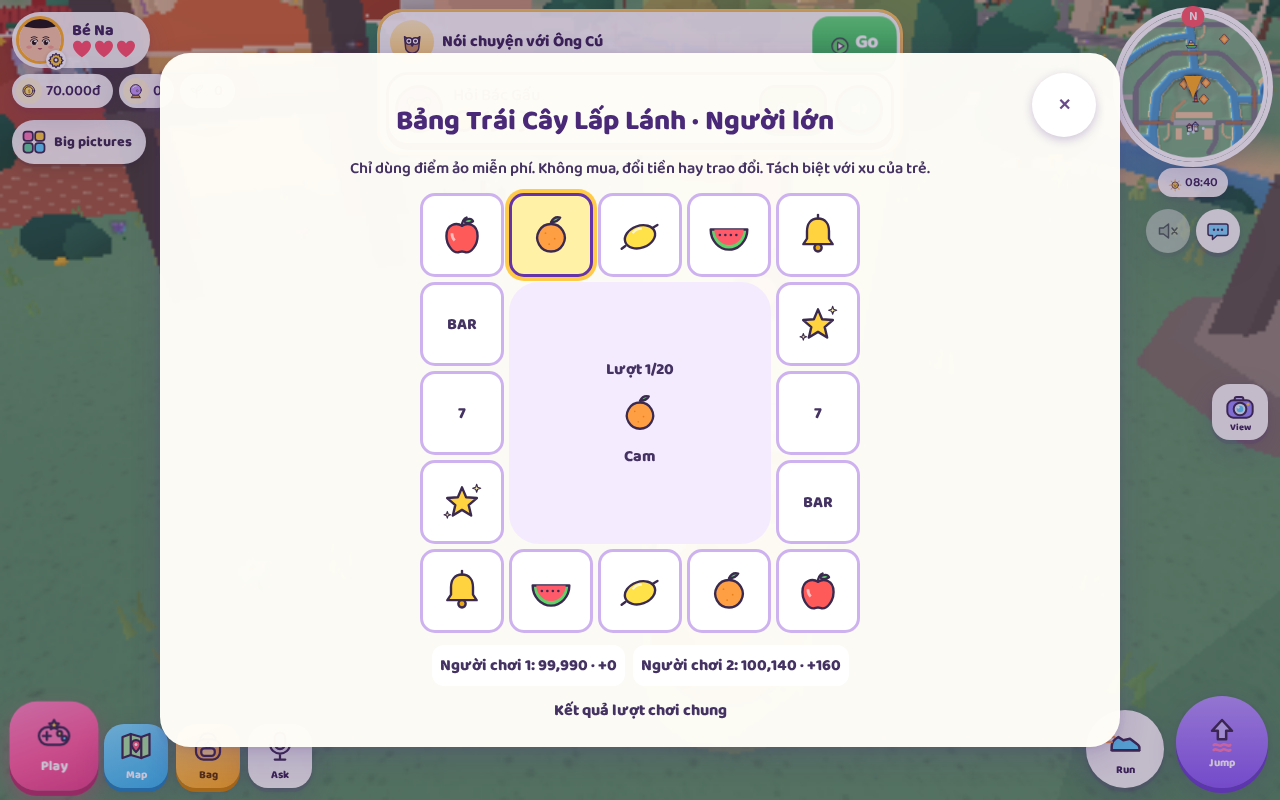
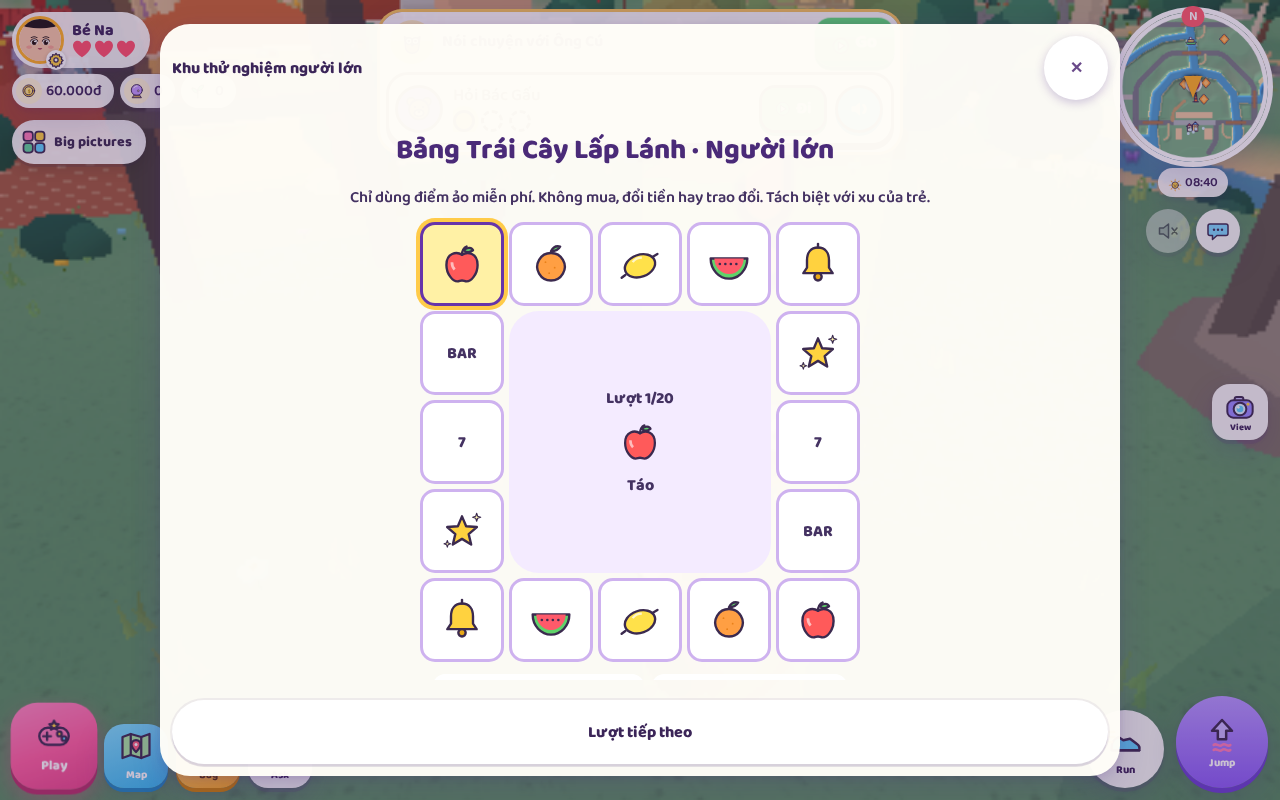
Keep parent arcade shell stable with reserved primary actions and safe hold cleanup

diff --git a/js/games/sparklefruitbar.ts b/js/games/sparklefruitbar.ts
@@ -14,9 +14,9 @@ export function openFruitBar(online?:GameOnline){
  const wasPaused=window.__sv?.paused;if(window.__sv)window.__sv.paused=true;
  const m=modal('parent-arcade',''),card=m.querySelector('.card') as HTMLElement;card.replaceChildren();
  const style=dom('style');style.textContent=ARCADE_STYLE;const close=control('✕',()=>finish());close.setAttribute('aria-label',T('Close','Đóng'));close.classList.add('x');
- const root=dom('div','arcade arcade-adult');root.dataset.parentArcade='';card.append(style,close,root);
+ const root=dom('div','arcade arcade-adult');root.dataset.parentArcade='';const header=dom('div','parent-arcade-header');header.append(dom('b','',T('Grown-up tester arcade','Khu thử nghiệm người lớn')),close);const footer=dom('div','parent-arcade-footer');card.append(style,header,root,footer);
  let session:ArcadeSession<ReturnType<typeof barStart>>|undefined,dead=false,helper=false,waitingAt=0;
- let timer:ReturnType<typeof setInterval>|undefined,frame=0,shown=-1,spinning=false,light=0;
+ let timer:ReturnType<typeof setInterval>|undefined,frame=0,shown=-1,spinning=false,light=0,lastView='';
  const icon=(i:number)=>i>=6?dom('b','',i===6?'7':'BAR'):art(BAR_SYMBOLS[i].art);
  function finish(){if(dead)return;dead=true;if(timer)clearInterval(timer);cancelAnimationFrame(frame);session?.close();if(online)online.leave?.();observer.disconnect();m.remove();if(window.__sv)window.__sv.paused=wasPaused||false;}
  function start(seats:number,npc:boolean,fair:boolean){helper=npc;session=new ArcadeSession(barStart(online?.seed||`parent-bar-${Date.now()}`,seats,fair),online,barApply,paint);paint();timer=setInterval(()=>{
@@ -31,7 +31,7 @@ export function openFruitBar(online?:GameOnline){
  const batch=(values:number[])=>{queued=values;while(queued.length&&!session?.busy){const n=queued.shift()!;if(!session?.submit(n))break;}};
  const command=(value:number)=>{if(!spinning)session?.submit(value);};
  function paint(){
-  if(!session||dead)return;const s=session.state;root.replaceChildren();root.dataset.phase=s.phase;root.dataset.round=String(s.round);queueMicrotask(pump);
+  if(!session||dead)return;const s=session.state;const view=[s.phase,s.round,s.turn].join(':');const resetView=view!==lastView;lastView=view;root.replaceChildren();footer.replaceChildren();root.dataset.phase=s.phase;root.dataset.round=String(s.round);queueMicrotask(pump);
   root.append(dom('h2','',T('Sparkle Fruit Bar · Grown-ups','Bảng Trái Cây Lấp Lánh · Người lớn')),
    dom('p','',T('Free virtual counters only. No purchase, cash-out or exchange. Separate from children’s coins.','Chỉ dùng điểm ảo miễn phí. Không mua, đổi tiền hay trao đổi. Tách biệt với xu của trẻ.')));
   const board=dom('div','arcade-ring');for(let i=0;i<16;i++){const c=dom('div','arcade-cell');c.dataset.barCell=String(i);c.style.gridColumn=String(RING_CELLS[i][0]);c.style.gridRow=String(RING_CELLS[i][1]);c.append(icon(i%8));board.append(c);}
@@ -48,22 +48,23 @@ export function openFruitBar(online?:GameOnline){
    const clear=control(T('Clear','Xóa'),()=>batch(s.bets[s.turn].flatMap((n,i)=>n?[i*101]:[])));
    const repeat=control(T('Repeat','Lặp lại'),()=>batch(s.previous[s.turn].flatMap((n,i)=>n!==s.bets[s.turn][i]?[i*101+n]:[])));
    const refill=control(T('Free refill to 100,000','Nạp miễn phí lên 100.000'),()=>command(902));refill.disabled=s.balances[s.turn]>=100000;
-   const ready=control(T('Lock allocations / Start','Chốt điểm / Bắt đầu'),()=>command(900));ready.dataset.barReady='';ready.disabled=!s.bets[s.turn].some(Boolean);actions.append(clear,repeat,refill,ready);if(queued.length||!mine()||session.waiting||helper&&!session.online&&s.turn!==0)actions.querySelectorAll('button').forEach(b=>b.disabled=true);root.append(actions);
+   const ready=control(T('Lock allocations / Start','Chốt điểm / Bắt đầu'),()=>command(900));ready.dataset.barReady='';ready.disabled=!s.bets[s.turn].some(Boolean)||!mine()||session.waiting||queued.length>0||helper&&!session.online&&s.turn!==0;actions.append(clear,repeat,refill);footer.append(ready);if(queued.length||!mine()||session.waiting||helper&&!session.online&&s.turn!==0)actions.querySelectorAll('button').forEach(b=>b.disabled=true);root.append(actions);
   }else{
    root.append(dom('p','',T(`Biggest returns: ${s.biggest.join(' · ')}`,`Điểm nhận lớn nhất: ${s.biggest.join(' · ')}`)));
-   if(s.phase==='result'){const next=control(s.round>=s.limit?T('Finish session','Kết thúc phiên'):T('Next round','Lượt tiếp theo'),()=>command(901));next.dataset.barNext='';next.disabled=!mine()||session.waiting||(!reduceMotion()&&s.round!==shown);root.append(next);}
+   if(s.phase==='result'){const next=control(s.round>=s.limit?T('Finish session','Kết thúc phiên'):T('Next round','Lượt tiếp theo'),()=>command(901));next.dataset.barNext='';next.disabled=!mine()||session.waiting||spinning||(!reduceMotion()&&s.round!==shown);footer.append(next);}
    else root.append(dom('h2','',T('Session complete. These counters stay in this arcade only.','Phiên chơi kết thúc. Điểm ảo chỉ nằm trong trò này.')));
   }
   const rules=dom('details'),summary=dom('summary','',T('Rules and exact frequencies','Luật chơi và tần suất chính xác'));rules.append(summary,dom('p','',T('Each selected counter is deducted once. Return = allocation × multiplier on the final symbol. Choose 0–100 per symbol. The default challenge lasts 20 rounds; refills are always free.','Mỗi điểm đã chọn được trừ một lần. Điểm nhận = điểm đặt × hệ số của hình cuối. Chọn 0–100 mỗi hình. Phiên mặc định có 20 lượt; nạp điểm luôn miễn phí.')),
    dom('p','',BAR_SYMBOLS.map(x=>`${T(x.en,x.vi)}: ${s.fair?'12.5':x.weight}% ×${x.mult}`).join(' · ')),dom('p','',T('Family-hosted seeded results are shared across players. This is not a ranked or cheat-proof competition. No public leaderboard or real-world value.','Kết quả theo hạt giống được chia sẻ giữa người chơi trong phòng gia đình. Đây không phải cuộc thi xếp hạng hay chống gian lận. Không có bảng xếp hạng công khai hoặc giá trị ngoài đời.')));root.append(rules);
   if(session.waiting&&performance.now()-waitingAt>=30000){const b=control(T('Continue locally','Chơi tiếp trên máy này'),()=>{session!.continueLocally();helper=false;waitingAt=0;paint();});b.dataset.barContinue='';root.append(b);}
+  if(resetView)root.scrollTop=0;
   if(s.phase==='result'&&s.round!==shown){shown=s.round;animateResult(s.result!);}else highlight(s.result??0);
  }
  function highlight(index:number){root.querySelectorAll<HTMLElement>('[data-bar-cell]').forEach((cell,i)=>cell.classList.toggle('on',i===index));}
  function animateResult(result:number){cancelAnimationFrame(frame);if(reduceMotion()){highlight(result);return;}spinning=true;const begin=performance.now();const tick=(now:number)=>{if(dead)return;const p=Math.min(1,(now-begin)/1800);light=Math.floor(48*(1-(1-p)**3));highlight(p===1?result:light%16);if(p<1)frame=requestAnimationFrame(tick);else{spinning=false;paint();}};frame=requestAnimationFrame(tick);}
  const gate=dom('div','arcade-gate');gate.append(dom('h2','',T('Grown-up tester arcade','Khu thử nghiệm dành cho người lớn')),dom('p','',T('Hold to enter. Virtual play only; this does not change the child’s progress.','Nhấn giữ để vào. Chỉ chơi bằng điểm ảo; không thay đổi tiến trình của trẻ.')));
  const enter=control(T('Grown-ups: press and hold','Người lớn: nhấn giữ'),()=>{});enter.classList.add('grown');enter.innerHTML='<span class="ring"></span>'+T('Grown-ups: press and hold','Người lớn: nhấn giữ');enter.dataset.barGate='';gate.append(enter);root.append(gate);
- holdButton(enter,()=>{root.replaceChildren();if(online){start(Math.min(4,online.names.length),false,false);return;}root.append(dom('h2','',T('Choose a parent arcade session','Chọn phiên chơi dành cho người lớn')));for(const [label,vi,seats,npc,fair]of [['Classic solo','Một người cổ điển',1,false,false],['Equal frequencies solo','Một người tần suất bằng nhau',1,false,true],['Two adults here','Hai người lớn cùng máy',2,false,false],['With a practice helper','Cùng bạn hỗ trợ tập chơi',2,true,false]]as const){if(!testerArcadeAvailable('sparklefruitbar','single'))continue;const b=control(T(label,vi),()=>start(seats,npc,fair));b.dataset.barMode=String(seats)+(npc?'npc':fair?'fair':'');root.append(b);}if(testerArcadeAvailable('sparklefruitbar','multi'))root.append(control(T('Invite another grown-up online','Mời người lớn khác trực tuyến'),()=>{finish();window.__sv.inviteGame('sparklefruitbar',undefined,1);}));});
+ holdButton(enter,()=>{if(dead)return;root.replaceChildren();if(online){start(Math.min(4,online.names.length),false,false);return;}root.append(dom('h2','',T('Choose a parent arcade session','Chọn phiên chơi dành cho người lớn')));for(const [label,vi,seats,npc,fair]of [['Classic solo','Một người cổ điển',1,false,false],['Equal frequencies solo','Một người tần suất bằng nhau',1,false,true],['Two adults here','Hai người lớn cùng máy',2,false,false],['With a practice helper','Cùng bạn hỗ trợ tập chơi',2,true,false]]as const){if(!testerArcadeAvailable('sparklefruitbar','single'))continue;const b=control(T(label,vi),()=>start(seats,npc,fair));b.dataset.barMode=String(seats)+(npc?'npc':fair?'fair':'');root.append(b);}if(testerArcadeAvailable('sparklefruitbar','multi'))root.append(control(T('Invite another grown-up online','Mời người lớn khác trực tuyến'),()=>{finish();window.__sv.inviteGame('sparklefruitbar',undefined,1);}));});
  return {close:finish};
 }
 

diff --git a/js/games/arcade-board.ts b/js/games/arcade-board.ts
@@ -3,4 +3,4 @@ export function dom<K extends keyof HTMLElementTagNameMap>(tag:K,cls='',text='')
 export function art(glyph:string){const e=dom('span','arcade-art');e.innerHTML=pic(glyph);return e;}
 export function control(text:string,fn:()=>void){const b=dom('button','btn',text);b.type='button';b.onclick=fn;return b;}
 export const RING_CELLS=[[1,1],[2,1],[3,1],[4,1],[5,1],[5,2],[5,3],[5,4],[5,5],[4,5],[3,5],[2,5],[1,5],[1,4],[1,3],[1,2]] as const;
-export const ARCADE_STYLE=`.arcade{width:min(100%,820px);margin:auto;display:grid;gap:12px;padding:8px;color:#443262}.arcade button{min-height:64px;min-width:64px;white-space:normal}.arcade h2,.arcade p{margin:0;text-align:center}.arcade .arcade-art .art{width:42px;height:42px}.arcade-mission{display:flex;gap:6px;justify-content:center;flex-wrap:wrap}.arcade-mission>span{background:#fff;border:3px solid #ddcafa;border-radius:16px;padding:6px}.arcade-mission .found{border-color:#23874a;background:#dcffe1}.arcade-ring{display:grid;grid-template:repeat(5,1fr)/repeat(5,minmax(0,1fr));aspect-ratio:1;max-height:440px;width:min(100%,440px);margin:auto;gap:5px;position:relative}.arcade-cell{display:grid;place-items:center;border:3px solid #ceb2ef;border-radius:15px;background:#fff;min-width:0!important;min-height:0!important;padding:3px}.arcade-cell.on{border-color:#6634aa;background:#fff1a5;box-shadow:0 0 0 4px #ffcb49}.arcade-cell .art{width:clamp(24px,7vw,44px)!important;height:clamp(24px,7vw,44px)!important}.arcade-center{grid-column:2/5;grid-row:2/5;display:flex;flex-direction:column;align-items:center;justify-content:center;text-align:center;gap:10px;padding:6px;background:#f4ebff;border-radius:30px}.arcade-center .art{width:74px;height:74px}.gl-arcade .arcade{flex-shrink:0}.orchard .arcade-ring{width:min(100%,440px,max(240px,calc(100dvh - 440px)))}.arcade-actions{display:flex;flex-wrap:wrap;justify-content:center;gap:8px}.arcade-status{min-height:2.8em;text-align:center;font-weight:700}.arcade-allocations{display:grid;grid-template-columns:repeat(auto-fit,minmax(125px,1fr));gap:8px}.arcade-bet{background:#fff;border:2px solid #d6c4ef;border-radius:18px;padding:8px;display:grid;justify-items:center;gap:5px}.arcade-bet label{display:grid;text-align:center;gap:4px}.arcade-bet input{width:100%;max-width:110px;min-height:44px;font:inherit;text-align:center}.arcade-adult button{min-height:44px;min-width:44px}.arcade details{background:#fff;padding:12px;border-radius:18px}.arcade summary{min-height:44px;cursor:pointer}.arcade-players{display:flex;flex-wrap:wrap;gap:8px;justify-content:center}.arcade-players b{background:#fff;border-radius:12px;padding:8px}.arcade .disabled{opacity:.55}.gl-arcade>.mascot,.gl-arcade>.mascot-say{display:none}.parent-arcade .card{width:min(960px,96vw);max-width:960px;max-height:94dvh;display:flex;flex-direction:column;overflow:hidden;padding:12px}.parent-arcade .x{position:static;align-self:flex-end;flex:none;width:64px;height:64px;min-width:64px;min-height:64px;padding:0;margin-bottom:6px}.parent-arcade .arcade{overflow-y:auto;min-height:0;max-height:calc(94dvh - 108px)}.parent-arcade-invite button{min-height:64px}.arcade-gate{display:grid;gap:20px;text-align:center;padding:24px}.arcade-gate button{min-height:64px}@media(max-width:480px){.arcade{padding:4px;gap:8px}.arcade-ring{max-height:350px}.arcade-center .art{width:52px;height:52px}}`;
+export const ARCADE_STYLE=`.arcade{width:min(100%,820px);margin:auto;display:grid;gap:12px;padding:8px;color:#443262}.arcade button{min-height:64px;min-width:64px;white-space:normal}.arcade h2,.arcade p{margin:0;text-align:center}.arcade .arcade-art .art{width:42px;height:42px}.arcade-mission{display:flex;gap:6px;justify-content:center;flex-wrap:wrap}.arcade-mission>span{background:#fff;border:3px solid #ddcafa;border-radius:16px;padding:6px}.arcade-mission .found{border-color:#23874a;background:#dcffe1}.arcade-ring{display:grid;grid-template:repeat(5,1fr)/repeat(5,minmax(0,1fr));aspect-ratio:1;max-height:440px;width:min(100%,440px);margin:auto;gap:5px;position:relative}.arcade-cell{display:grid;place-items:center;border:3px solid #ceb2ef;border-radius:15px;background:#fff;min-width:0!important;min-height:0!important;padding:3px}.arcade-cell.on{border-color:#6634aa;background:#fff1a5;box-shadow:0 0 0 4px #ffcb49}.arcade-cell .art{width:clamp(24px,7vw,44px)!important;height:clamp(24px,7vw,44px)!important}.arcade-center{grid-column:2/5;grid-row:2/5;display:flex;flex-direction:column;align-items:center;justify-content:center;text-align:center;gap:10px;padding:6px;background:#f4ebff;border-radius:30px}.arcade-center .art{width:74px;height:74px}.gl-arcade .arcade{flex-shrink:0}.orchard .arcade-ring{width:min(100%,440px,max(240px,calc(100dvh - 440px)))}.arcade-actions{display:flex;flex-wrap:wrap;justify-content:center;gap:8px}.arcade-status{min-height:2.8em;text-align:center;font-weight:700}.arcade-allocations{display:grid;grid-template-columns:repeat(auto-fit,minmax(125px,1fr));gap:8px}.arcade-bet{background:#fff;border:2px solid #d6c4ef;border-radius:18px;padding:8px;display:grid;justify-items:center;gap:5px}.arcade-bet label{display:grid;text-align:center;gap:4px}.arcade-bet input{width:100%;max-width:110px;min-height:44px;font:inherit;text-align:center}.arcade-adult button{min-height:44px;min-width:44px}.arcade details{background:#fff;padding:12px;border-radius:18px}.arcade summary{min-height:44px;cursor:pointer}.arcade-players{display:flex;flex-wrap:wrap;gap:8px;justify-content:center}.arcade-players b{background:#fff;border-radius:12px;padding:8px}.arcade .disabled{opacity:.55}.gl-arcade>.mascot,.gl-arcade>.mascot-say{display:none}.modal.parent-arcade .card{width:min(960px,96vw);max-width:960px;height:min(900px,94dvh);max-height:94dvh;display:flex;flex-direction:column;overflow:hidden;padding:12px}.modal.parent-arcade .parent-arcade-header{display:flex;flex:none;align-items:center;justify-content:space-between;gap:12px;margin-bottom:8px}.modal.parent-arcade .parent-arcade-header>.x{position:static;float:none;top:auto;right:auto;align-self:center;flex:none;width:64px;height:64px;min-width:64px;min-height:64px;padding:0;margin:0}.modal.parent-arcade .card>.arcade{flex:1 1 auto;align-content:start;margin:0 auto;overflow-y:auto;min-height:0;max-height:none}.parent-arcade-footer{display:flex;flex:none;justify-content:center;padding:8px 0 0;gap:8px}.parent-arcade-footer:empty{display:none}.parent-arcade-footer>button{flex:1;min-height:52px;min-width:44px}.parent-arcade-invite button{min-height:64px}.arcade-gate{display:grid;gap:20px;text-align:center;padding:24px}.arcade-gate button{min-height:64px}@media(max-width:480px){.arcade{padding:4px;gap:8px}.arcade-ring{max-height:350px}.arcade-center .art{width:52px;height:52px}}`;

diff --git a/docs/cores/tasks/v1.02-current-release-checkpoint.md b/docs/cores/tasks/v1.02-current-release-checkpoint.md
@@ -17,3 +17,6 @@ Full --all dispatched on GitHub, PR #602; record the latest run after the final 
 Still release blockers: six inaccurate folk prototypes, horse/shared-foundation rules/state defects from audit, production Lê Minh selector/cache/background download integration and default voice coverage, website editorial review/source sync, final GitHub regression/code map, local serial speed checks and physical-device/listening review. AI review did not finish. No release ZIP or deployment approval requested while blocked. Advanced alternate parent reels/bonus games/tournaments and extra educational Orchard symbol sets are extension work, not finished features.
 
 HTTP: python3 -m http.server 8765 at /workspace/tpn-fruit-parade, current owned PID 54148, started about 10:17 pm AEDT, expires around 12:17 am AEDT. Restart when it stops; no pkill/pgrep patterns. No local suite currently needed beyond unresolved concrete concerns. Main game evidence is docs/v1.02-orchard-arcade/README.md; old audit evidence docs/v1.02-audit/REPORT.md; do not confuse old screenshots/results with current source.
+
+
+Final parent shell refinement: fixed-height modal, distinct header/Close and primary footer, actual EN/VI allocations and two-adult rounds verified six layouts. Default animation and close-during-hold regression pass. Native screenshots/contact sheets refreshed. Source changes must be committed/pushed and the final full regression selected at the resulting head; do not call the older b5ed19524 exhaustive run final for this shell refinement. All 11 voice clips are reused when source hashes refresh.

diff --git a/docs/v1.02-orchard-arcade/README.md b/docs/v1.02-orchard-arcade/README.md
@@ -45,3 +45,6 @@ Final Orchard review repaired guest-to-NPC continuation to retain the guest’s 
 The dedicated parent-entry regression also passes: rapid duplicate opening creates one gated window, an actual round completes, and closing restores the prior pause state. New invitations are declined while the parent arcade is already active. The 6,319 baseline clips cover stable v1.01; six uncorrected folk prototypes still require a later reviewed speech delta, rather than paying to record incorrect instructions.
 
 [Orchard pictures](review/orchard.jpg) · [Parent arcade pictures](review/parent-bar.jpg) · [Studio analytics pictures](review/analytics.jpg) · [Studio switches](review/switches.jpg). These are synthetic test profiles and actual game artwork, not real family data.
+
+
+Final parent layout review covers allocation fields and actual two-adult result screens in both languages on all three sizes (twelve additional native captures). Close has a separate fixed header row and cannot cover inputs; the outer window retains its height, the primary Start/Next action has its own footer, and changing turn/round resets the scroll body deliberately. All six layout/round cases pass. Default animated lights finish and re-enable Next; closing during a hold cannot create a hidden online session. Images: [allocations](review/parent-allocations.jpg), [actions](review/parent-actions.jpg).
